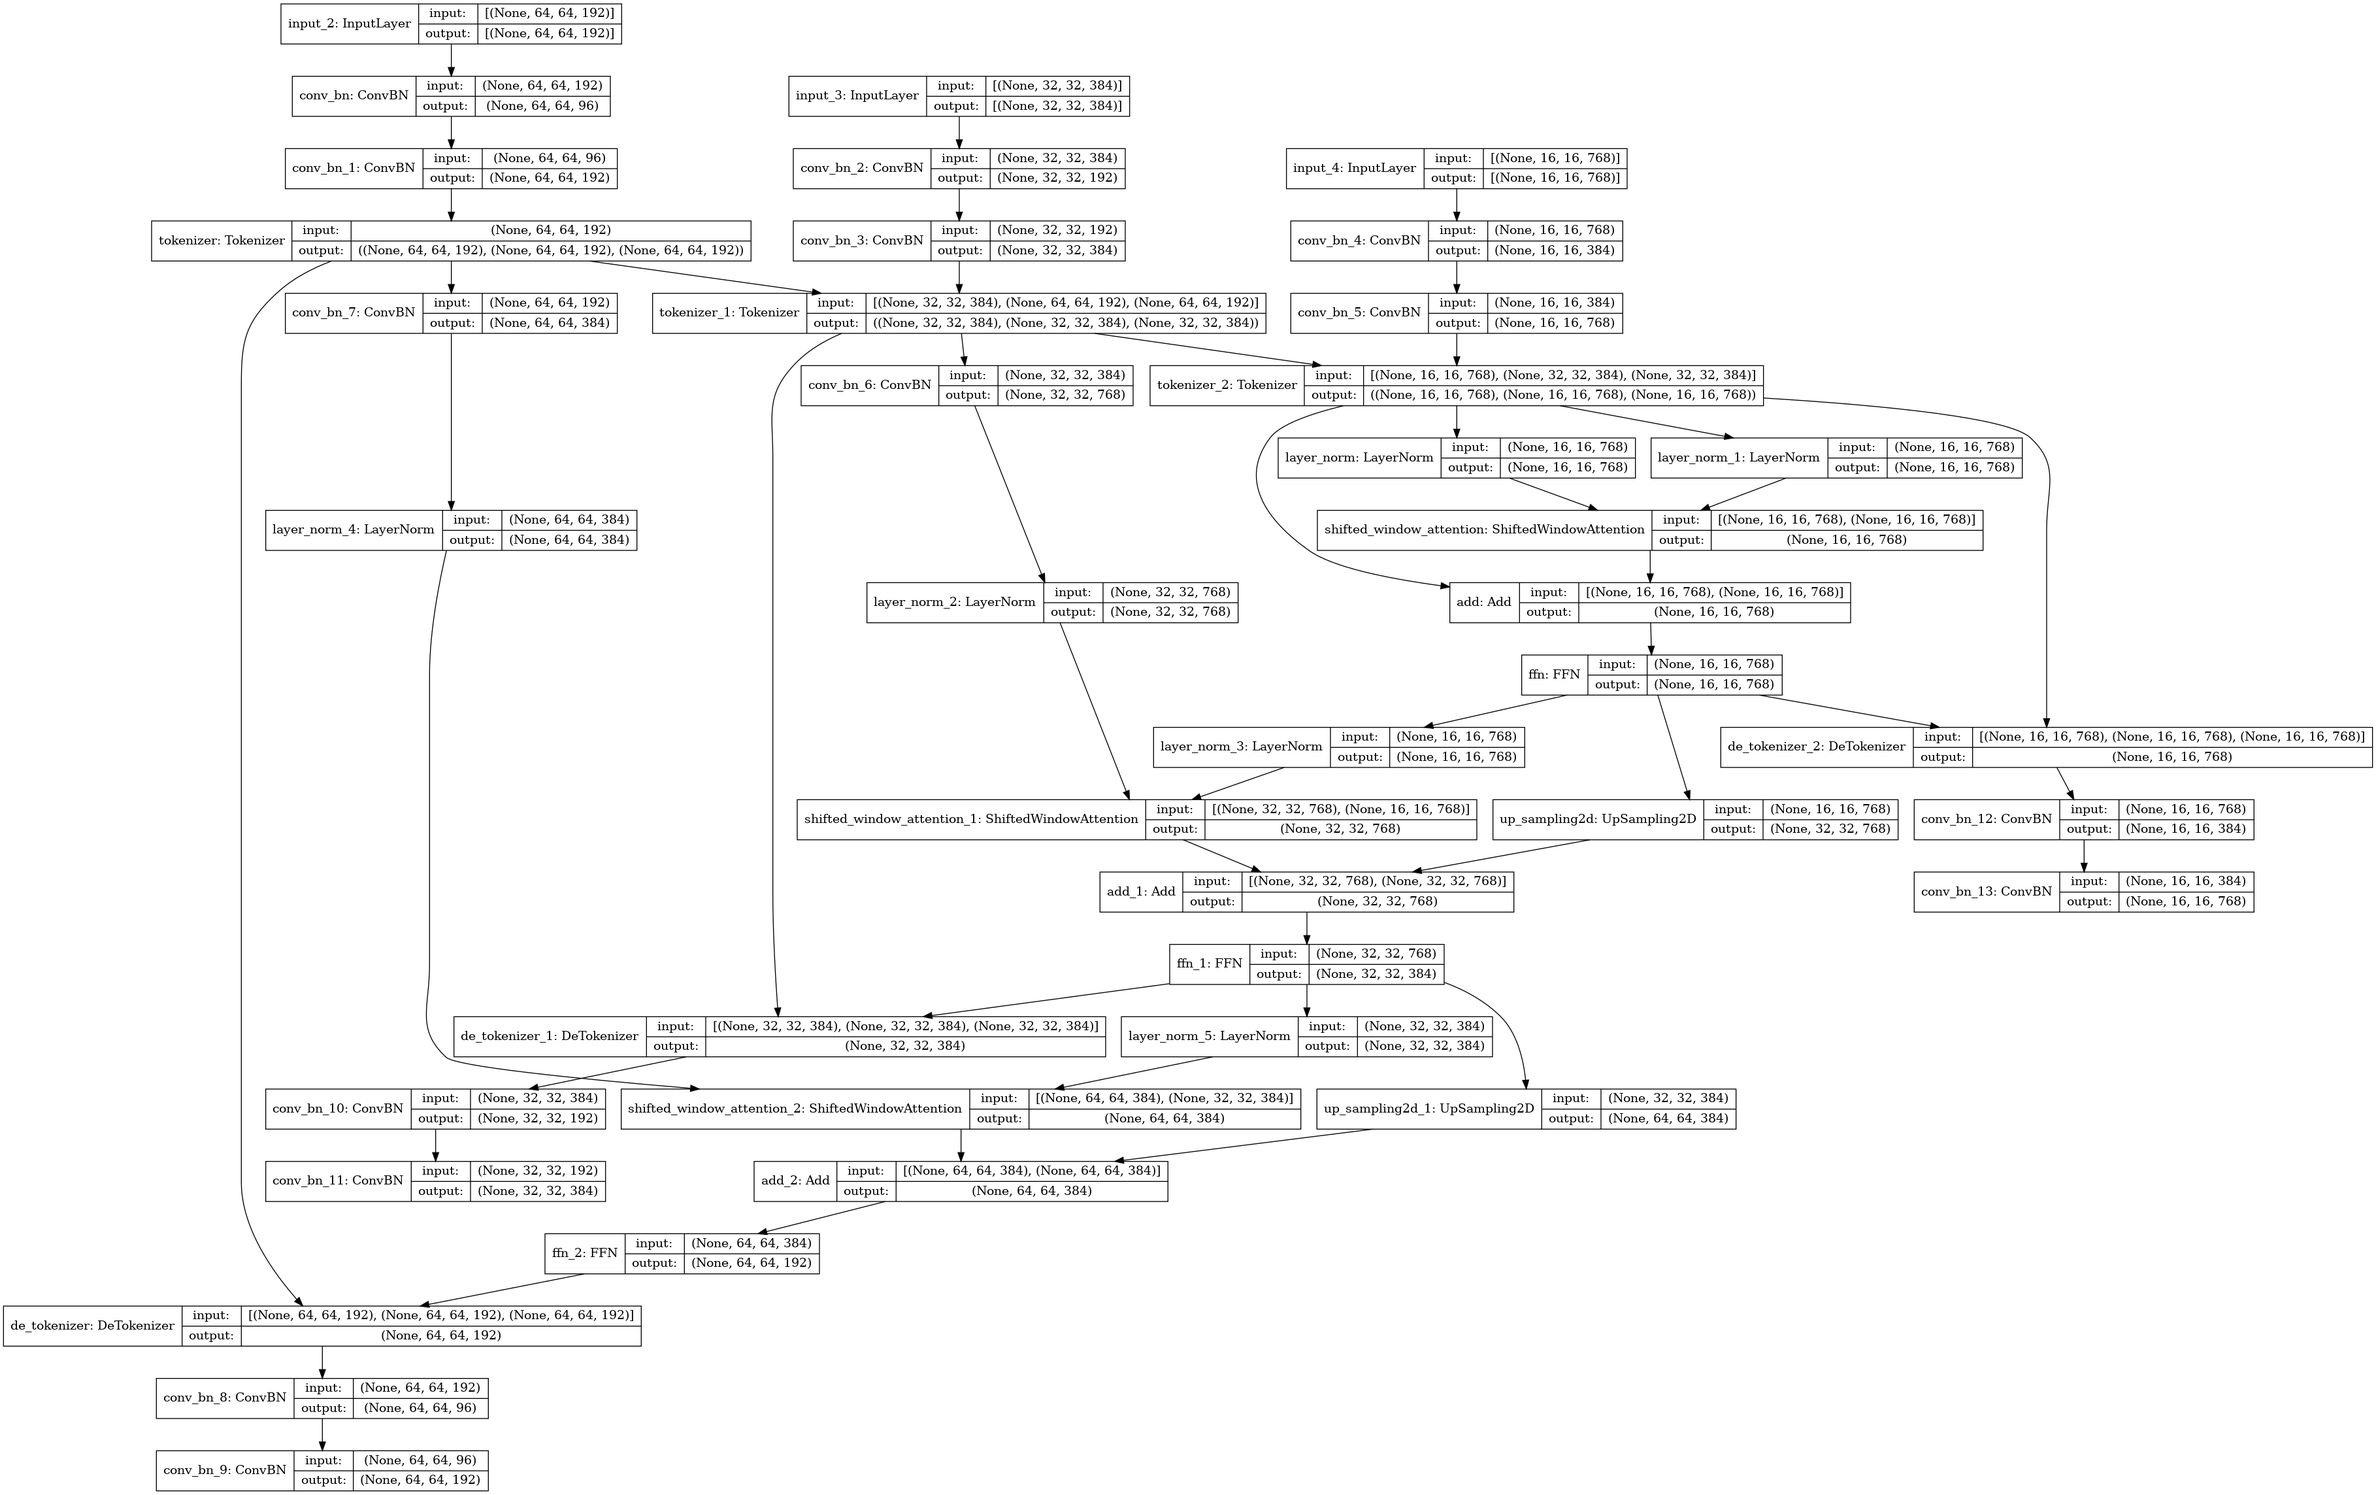
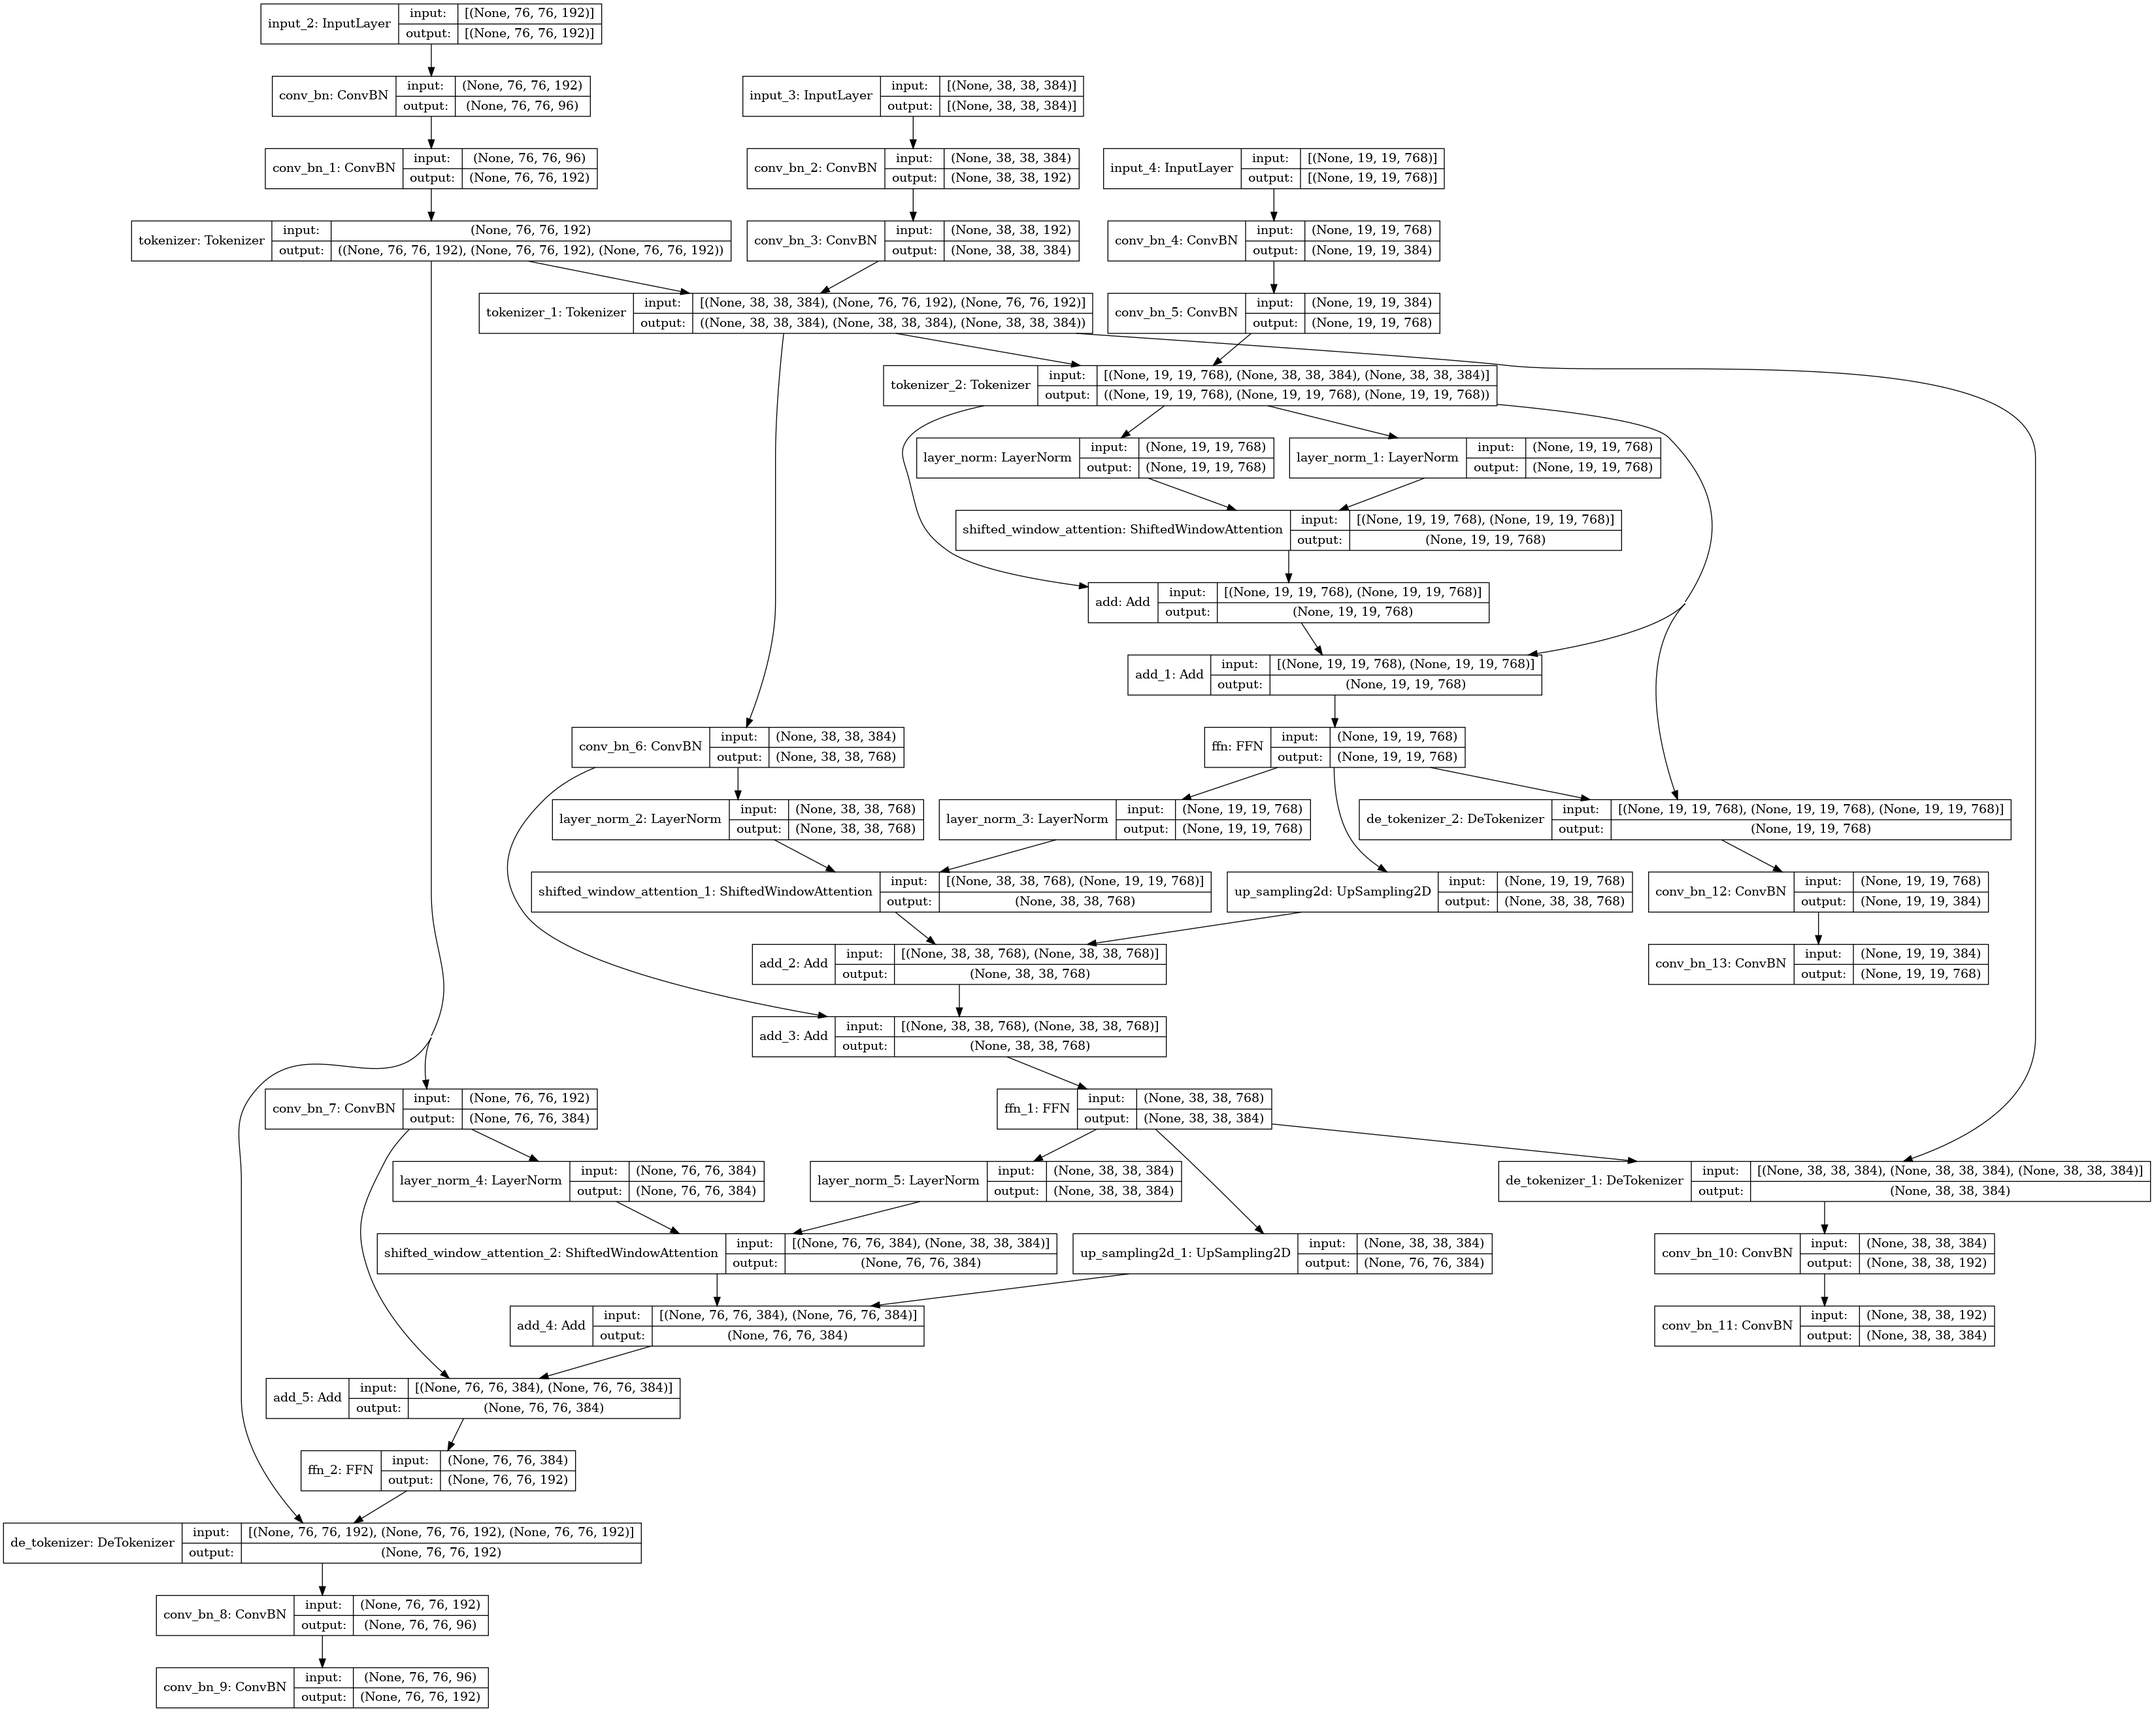
tansformers

Changed region(s): [[0.0, 0.0, 1.0, 1.0], [0.75, 0.683, 1.0, 0.7761], [0.125, 0.3415, 0.2812, 0.3725]]

diff --git a/yolo/modeling/layers/attention_fpn_blocks2.py b/yolo/modeling/layers/attention_fpn_blocks2.py
@@ -1148,15 +1148,66 @@ class TBiFPN(tf.keras.Model):
     ns = self.layer_norm(source)
     x = attention([nq, ns])
     
+    # # config one 
     if upsample == True:
       source = tf.keras.layers.UpSampling2D(sample_size)(source)
     elif upsample == False:
       source = self.dw_conv(source, sample_size)
     else:
       source = source
-
     x = tf.keras.layers.Add()([x, source])
+
+    # config 2 and 3
+    # x = tf.keras.layers.Add()([x, query])
     return self.ffn(x, output_features=exp1_features)
+
+  # # upsample mapping 
+  # def merge_levels(self, source, query, oquery = None):
+  #   num_heads = query.shape[-1]//self._token_size
+  #   exp1_features = query.shape[-1]
+  #   exp2_features = source.shape[-1]
+    
+  #   sample_size = query.shape[1]/source.shape[1]
+  #   query_window_size = int(self._window_size * sample_size)
+  #   source_window_size = self._window_size
+
+  #   if sample_size > 1:
+  #     sample_size = int(sample_size)
+  #     upsample = True
+  #   elif sample_size < 1:
+  #     sample_size = int(source.shape[1]/query.shape[1])
+  #     query_window_size = int(self._window_size * sample_size)
+  #     query_window_size, source_window_size = source_window_size, query_window_size
+  #     upsample = False
+  #   else:
+  #     upsample = None
+
+  #   attention = ShiftedWindowSelfAttention(
+  #     source_window_size, 
+  #     shift = False, 
+  #     num_heads = num_heads, 
+  #     kernel_size = 1, 
+  #     use_separable_conv = False, 
+  #     qkv_bias=True, 
+  #     qk_scale=None, 
+  #     project_attention = False,
+  #   )
+
+  #   if exp1_features != exp2_features:
+  #     query = self.conv(query, exp2_features)
+
+  #   if upsample == True:
+  #     source = tf.keras.layers.UpSampling2D(sample_size)(source)
+  #   elif upsample == False:
+  #     source = self.dw_conv(source, sample_size)
+  #   else:
+  #     source = source
+  #   x = tf.keras.layers.Add()([query, source])
+  #   x = self.conv(x, exp2_features)
+
+  #   x = self.layer_norm(x)
+  #   x = x + attention(x)
+  #   return self.ffn(x, output_features=exp1_features)
 
   def build_merging(self, inputs, fpn_only):
     outputs = inputs
